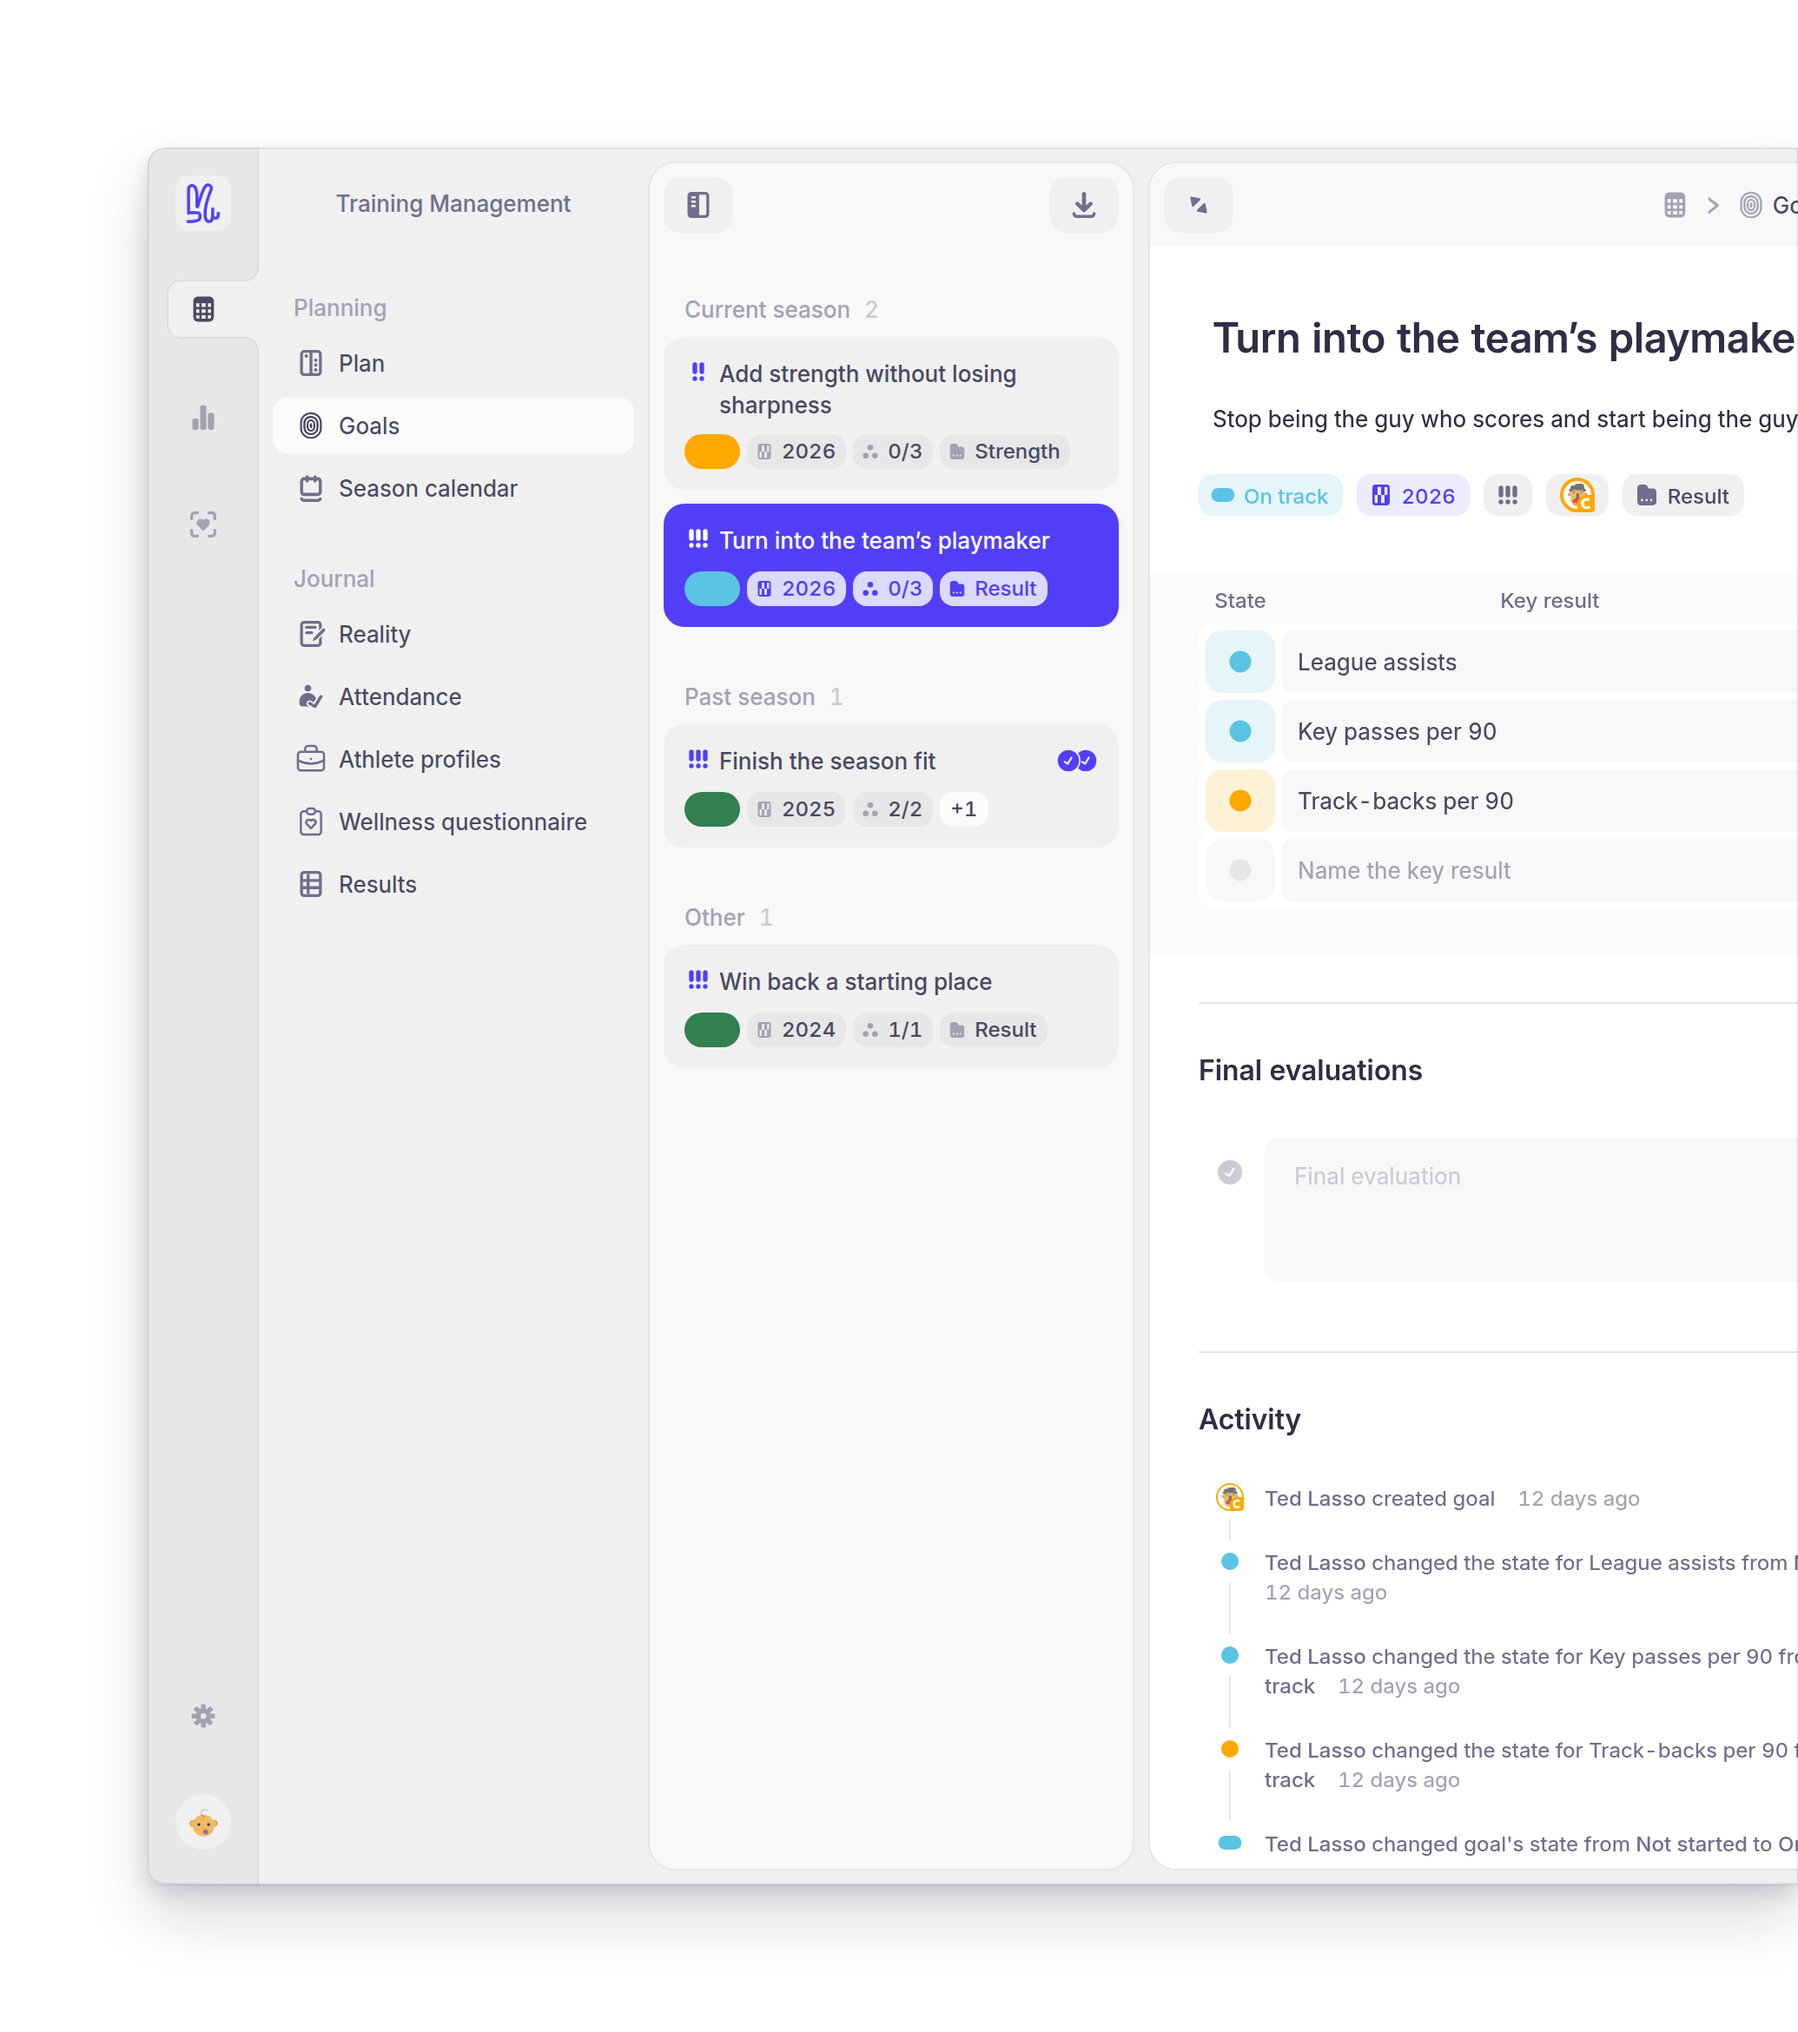
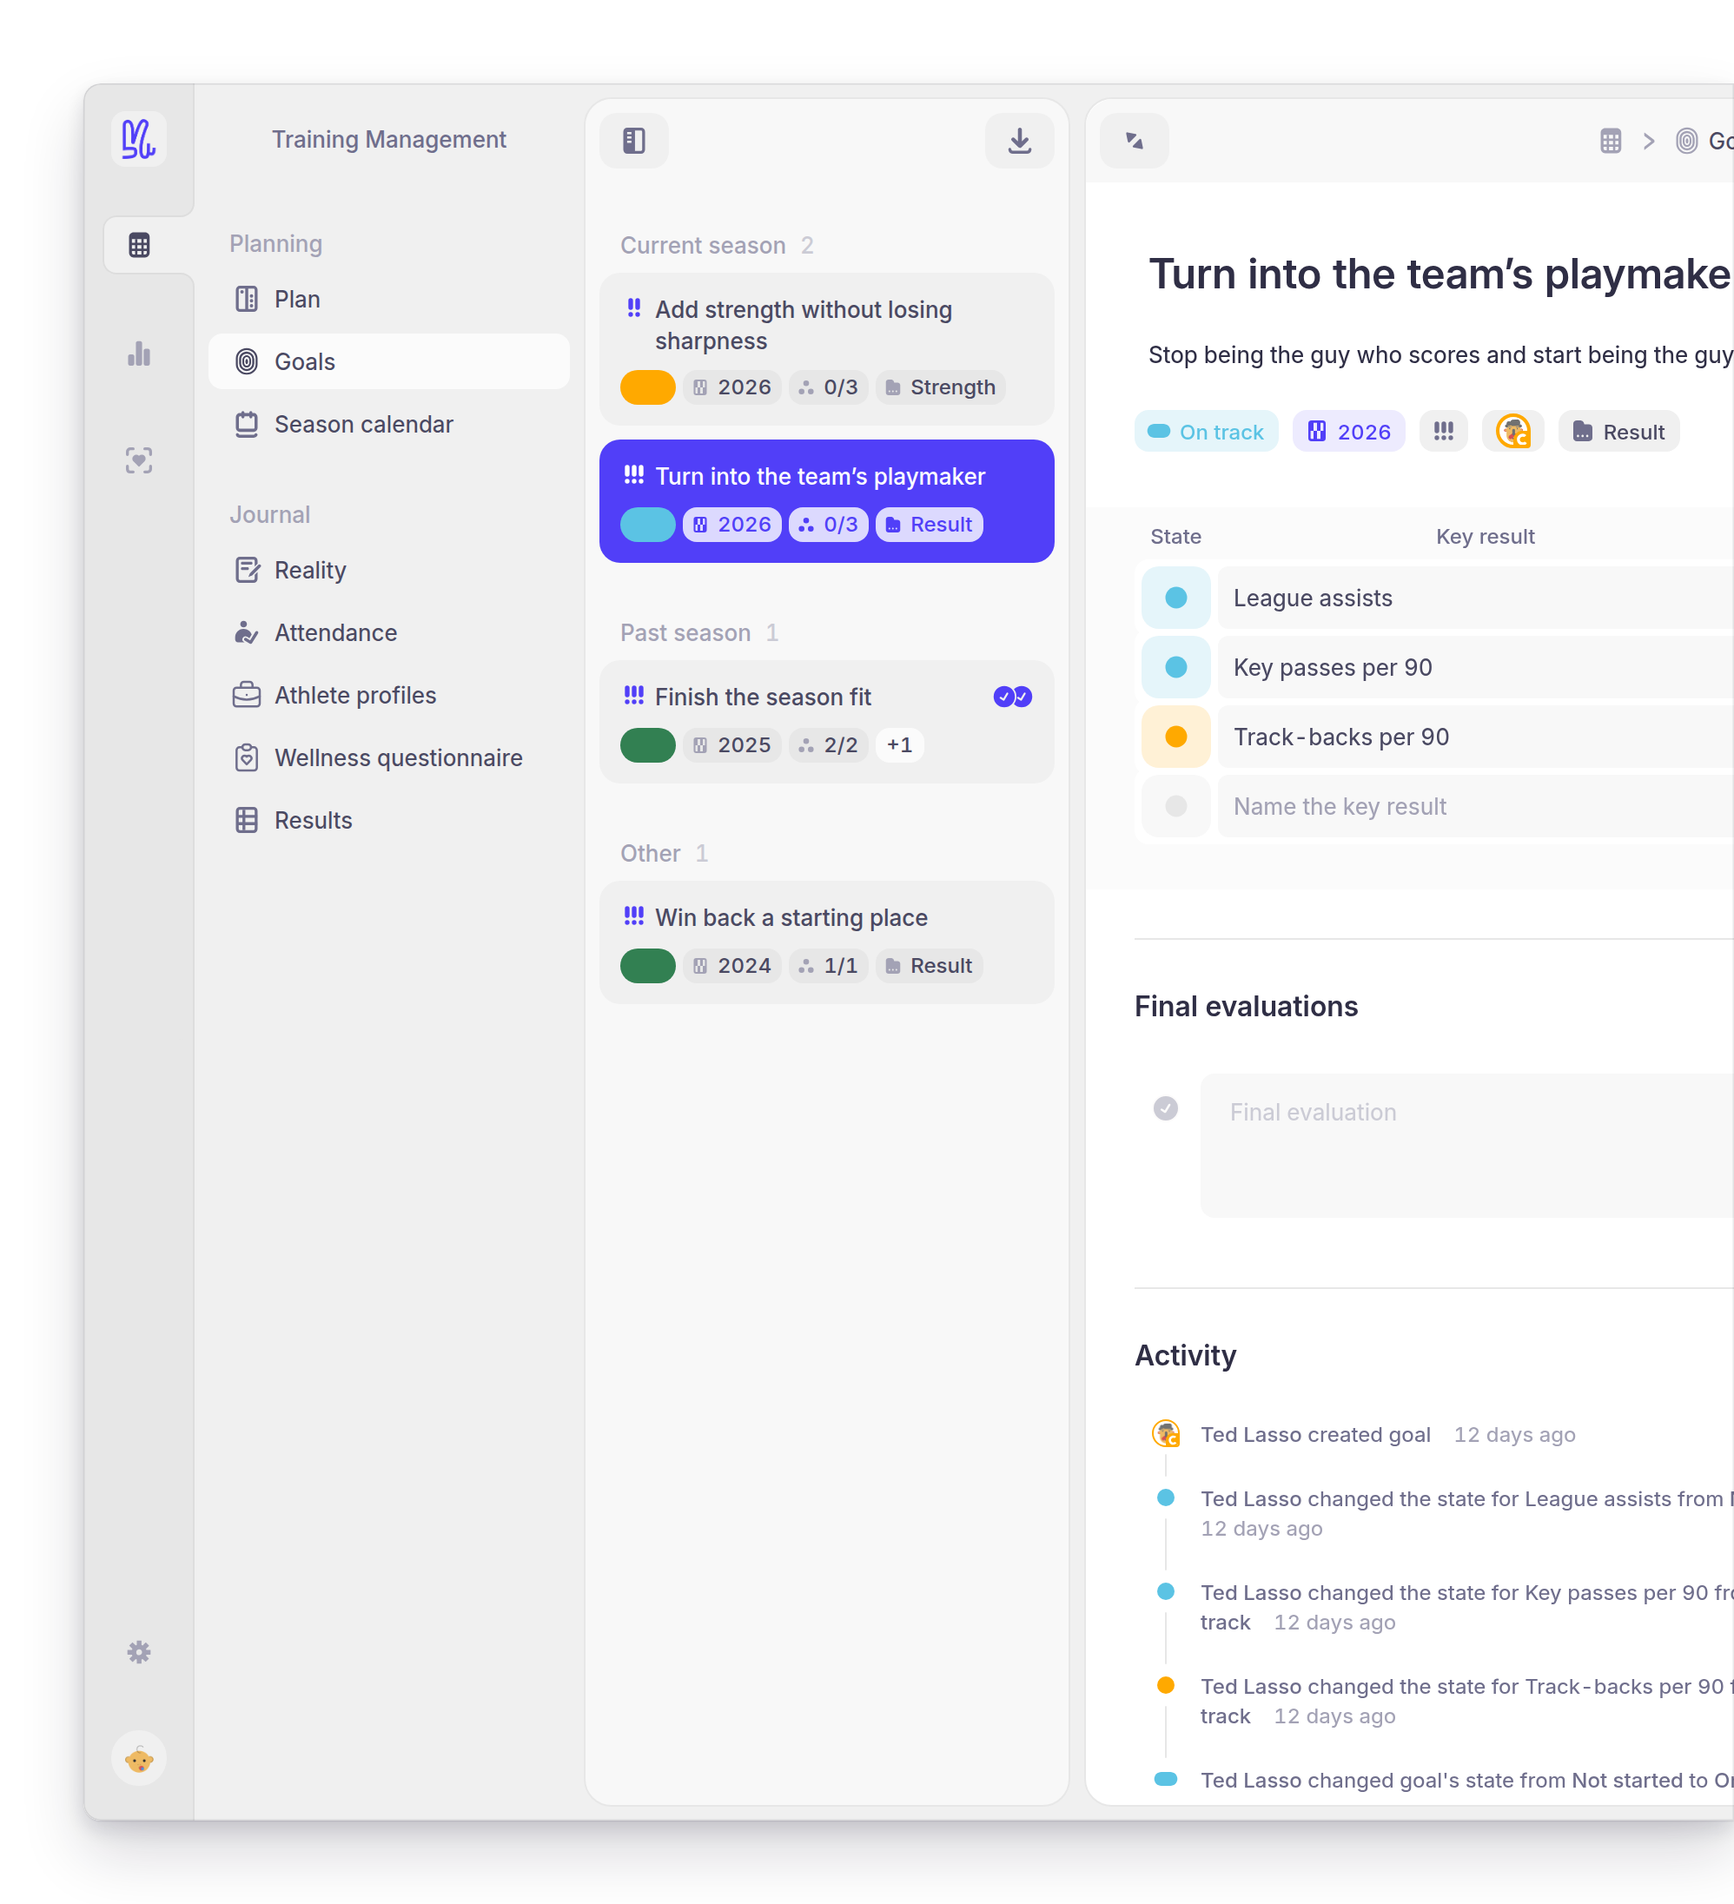
Goals figures: tighten the margin around the window
96px at 2x on the window's own sides (~48 CSS px), 176px for the
marketing lead — down from 170/300. Closer to how Linear frames a
product shot: the window is the subject and the backdrop is a frame
rather than a mat.

Claude-Session: https://claude.ai/code/session_01BcTgTxjwzSdWmEF7MFmzuM

diff --git a/docs-guide/visuals/demo-cast.md b/docs-guide/visuals/demo-cast.md
@@ -68,8 +68,9 @@ harness clears them before every shot.
 
 **The PNG carries the window; the docs frame carries the backdrop.** A figure is exported as
 the app window on **transparency** — its macOS-sized corner (20px at 2x ≈ 10 CSS px; bigger
-starts eating the UI), a 1.5px hairline, a layered shadow, and ~170px of transparent margin on
-the sides that are the window's own edge. The colour behind it comes from CSS in
+starts eating the UI), a 1.5px hairline, a layered shadow, and a **tight** transparent margin on the sides that are the window's own
+edge — **96px at 2x** (~48 CSS px), **176px** for the marketing lead. Keep it tight: the window
+is the subject and the backdrop is a frame, not a mat. The colour behind it comes from CSS in
 `.ym-frame-media`, so one asset serves both themes and the treatment can be retuned without
 re-rendering anything:
 
